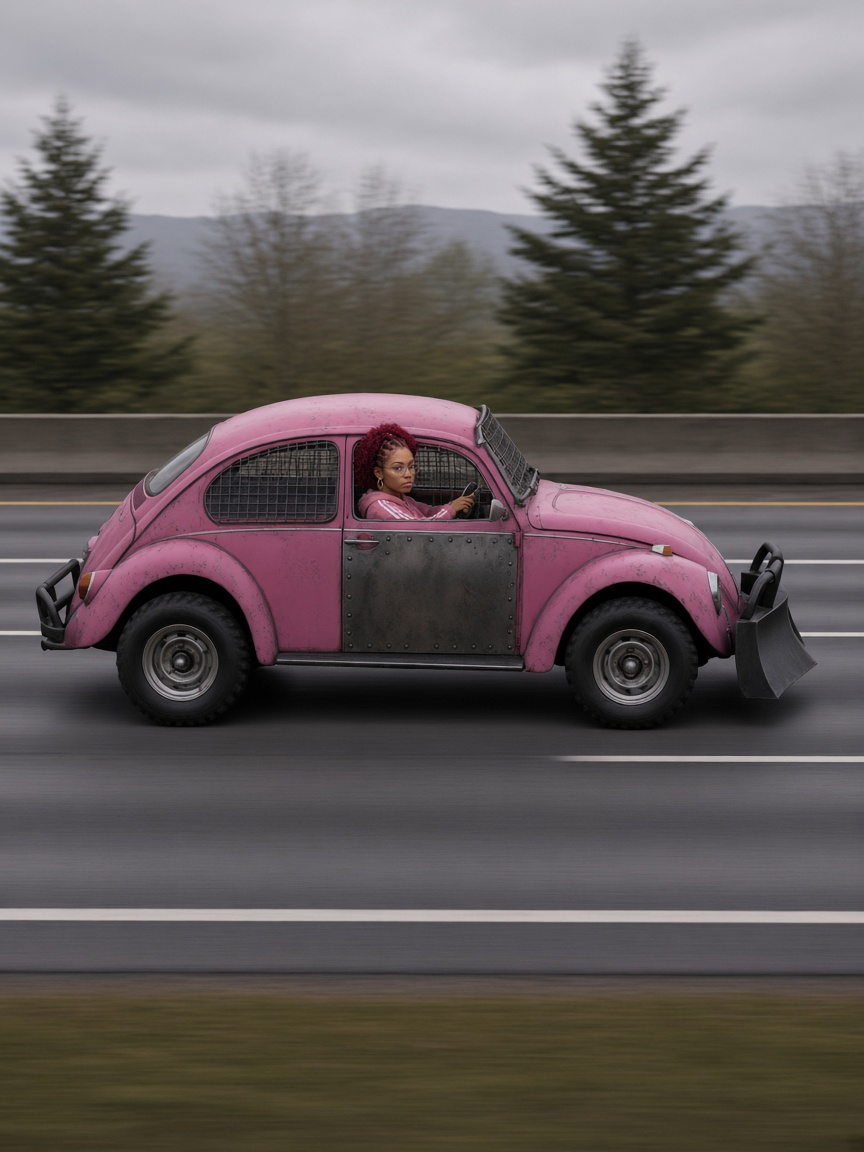
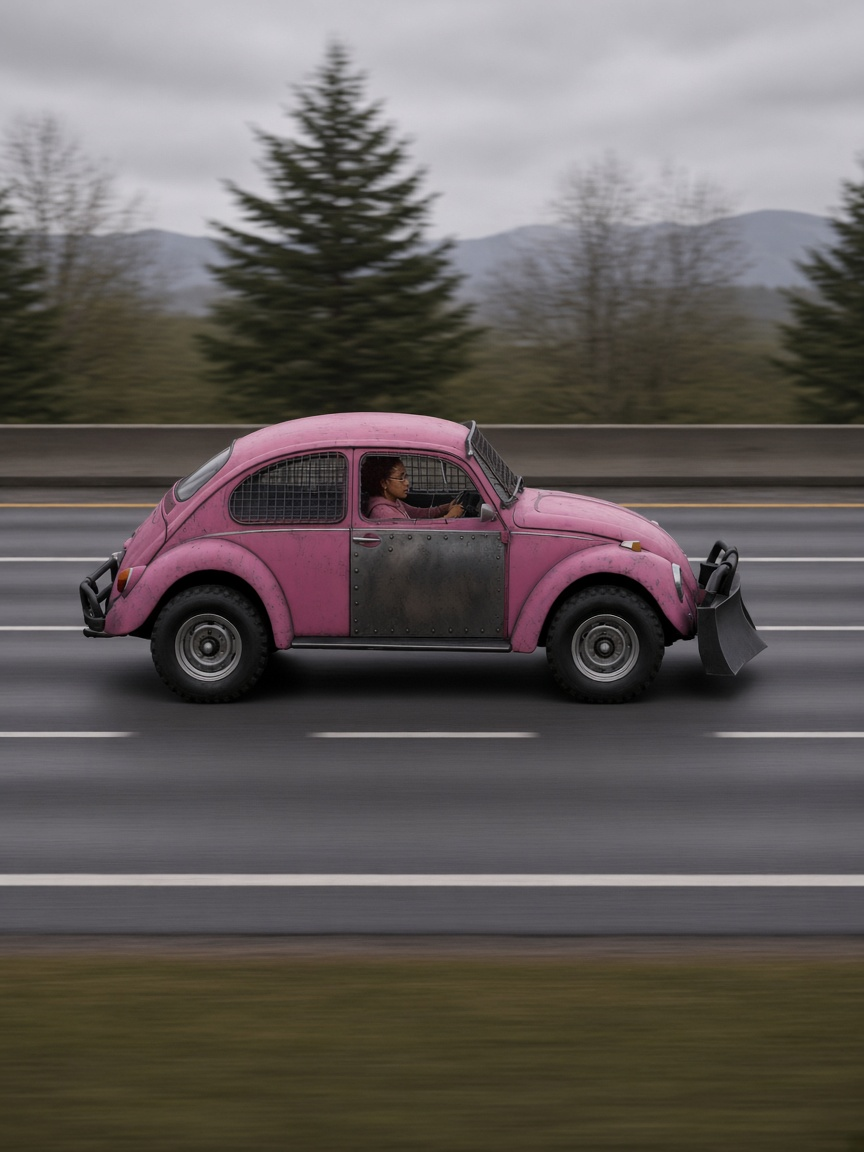
Seed V-009 take-37 PASS on the playtest ship.
Replace the mistaken take-31 still. Claude overflow picked take-37
(eyes forward). Take-31 is FAIL. Cache bump ?v=a74.

diff --git a/src/game.js b/src/game.js
@@ -220,7 +220,7 @@ function sceneFragment(scene) {
 }
 
 function imageUrl(cardId) {
-  return "/api/run/image/" + encodeURIComponent(cardId) + "?v=a71";
+  return "/api/run/image/" + encodeURIComponent(cardId) + "?v=a74";
 }
 
 function cargoUsed(state) {

diff --git a/PLAYTEST.md b/PLAYTEST.md
@@ -4,9 +4,9 @@
 
 Parents: [https://parents.tactag.app](https://parents.tactag.app).
 
-Image cache `?v=a71`. Railway production is on this ship branch until #195 merges to `main`.
+Image cache `?v=a74`. Railway production is on this ship branch until #195 merges to `main`.
 
-**Act V is complete (all 13).** V-009 take-31 is live (Claude PASS). Take-37 FAIL — not seeded.
+**Act V is complete (all 13).** V-009 take-37 is live (Claude overflow PASS, eyes forward). Take-31 FAIL — not used.
 
 No new art was generated for this ship. Stills are the already-seeded live Postgres plates.
 
@@ -60,7 +60,7 @@ Highway / Skill eleven. Ali. Relay kit cargo. Yuna is radio-only.
 | V-006 | Keep Right Except to Pass | hazard | take-47 · #177 | MATCH |
 | V-007 | Slow On the Ramp | rule | take-18 · #185 | MATCH |
 | V-008 | Posted Before the Bend | scene | take-7 · #180 | MATCH |
-| V-009 | Small Hands at Speed | scene | take-31 · #196 (PR #192 PASS) | MATCH |
+| V-009 | Small Hands at Speed | scene | take-37 · #197 (PR #192 PASS; take-31 not used) | MATCH |
 | V-010 | One Lane, Then Sit | rule | take-10 · #194 | MATCH |
 | V-011 | Zipper at the Closure | hazard | take-7 · #159 | MATCH |
 | V-012 | Three Seconds Here Too | rule | take-20 · #194 | MATCH |
@@ -68,7 +68,7 @@ Highway / Skill eleven. Ali. Relay kit cargo. Yuna is radio-only.
 
 ### V-009 status
 
-**Live.** Claude overflow PASS on PR #192 take-31 (hands readable). Take-37 FAIL (hands smudged by door frame) — not seeded. File-seed + live DB: [PR #196](https://github.com/d6ewasupervisor-netizen/pink_menace/pull/196).
+**Live.** Claude overflow (`890f91af` / `d748b5d7`) authoritative pick is **take-37 PASS** (eyes forward). **take-31 FAIL** (head turned to camera / eyes off road) — not used. File-seed + live DB: [PR #197](https://github.com/d6ewasupervisor-netizen/pink_menace/pull/197). PR #196 take-31 seed is superseded.
 
 ## Left unmerged (on purpose)
 

diff --git a/PLAYTHROUGH.md b/PLAYTHROUGH.md
@@ -58,7 +58,7 @@ Dossiers are continue-only (no quiz options). That is intended.
 | V-006 | Keep Right Except to Pass | hazard | take 47 · #177 |
 | V-007 | Slow On the Ramp | rule | take 18 · #185 |
 | V-008 | Posted Before the Bend | scene | take 7 · #180 |
-| V-009 | Small Hands at Speed | scene | take 31 · #196 (PR #192 PASS; take-37 FAIL) |
+| V-009 | Small Hands at Speed | scene | take 37 · #197 (PR #192 PASS; take-31 not used) |
 | V-010 | One Lane, Then Sit | rule | take 10 · #194 |
 | V-011 | Zipper at the Closure | hazard | take 7 · #159 |
 | V-012 | Three Seconds Here Too | rule | take 20 · #194 |
